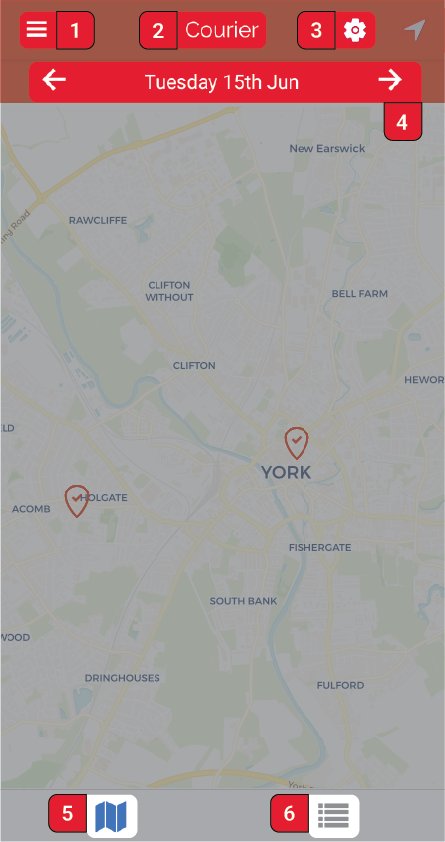
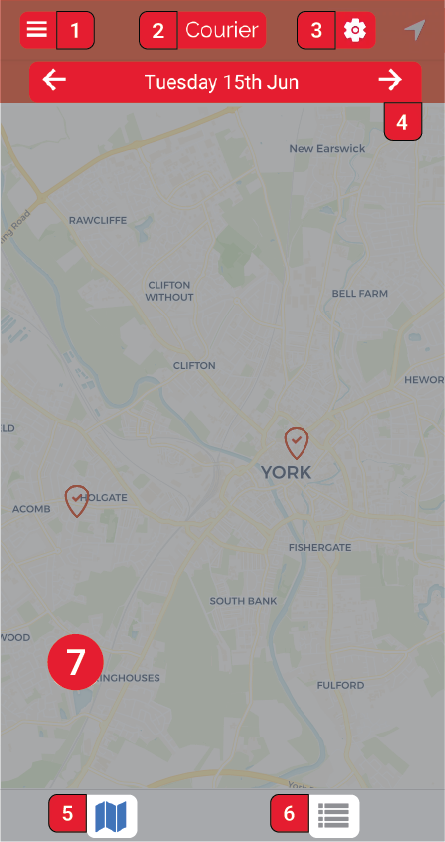
add app

Changed region(s): [[0.0876, 0.7411, 0.2337, 0.8337]]

diff --git a/docs/_app/courier.md b/docs/_app/courier.md
@@ -3,13 +3,11 @@ layout: default
 title: Courier
 ---
 
-<link rel="stylesheet" href="https://cdnjs.cloudflare.com/ajax/libs/font-awesome/5.5.0/css/all.css"!important>
-
-
+<link rel="stylesheet" href="https://cdnjs.cloudflare.com/ajax/libs/font-awesome/5.14.0/css/all.css">
 
 # Courier
 
-<div class="alert mt-3 alert-" role="alert">
+<div class="alert mt-3 alert-info" role="alert">
 How to use the App as a Courier.
 </div>
 
@@ -20,10 +18,10 @@ See [Log in](en/app/install/#log-in).
 
 | Instructions  | Main screen  |
 | ------- | ------- |
-| <span class="badge badge-danger">1</span> App menu<br><span class="badge badge-danger">2</span> User account role<br><span class="badge badge-danger">3</span> App settings<br><span class="badge badge-danger">4</span> Calendar picker<br><span class="badge badge-danger">5</span> Map screen/Main screen<br><span class="badge badge-danger">6</span> Task list screen<br><span class="badge badge-danger">7</span> Map|![](/assets/images/appCourierMainScreen.png).|
+| <span class="badge badge-danger">1</span> App menu<br><span class="badge badge-danger">2</span> User account role<br><span class="badge badge-danger">3</span> App settings<br><span class="badge badge-danger">4</span> Date picker<br><span class="badge badge-danger">5</span> Map screen<br><span class="badge badge-danger">6</span> Task list screen<br><span class="badge badge-danger">7</span> Map|![](/assets/images/appCourierMainScreen.png).|
    
 
-### App menu
+### <span class="badge badge-danger">1</span> App menu
 
 Here you can find:
 
@@ -38,23 +36,66 @@ Bottom of the menu screen:
 - The Coop email is displayed. This is the email set up in Setting on the Platform website.
 - Version number of the App.
 
-### User account role
+### <span class="badge badge-danger">2</span> User account role
 This simply displays the role your user account. If your user account has multiple roles, the role would change depending on where you navigate within the app.
 
-### App settings
+### <span class="badge badge-danger">3</span> App settings
 <div class="alert mt-3 alert-info" role="alert">
 App settings is split into two sections.
 </div>
 
 #### **Tasks**
-<span><i class="fa fa-check" aria-hidden="true"></i> <strong>Hide done tasks</strong> hides on the map the tasks that have been completed.</span>
-<span><i class="fa fa-times" aria-hidden="true"></i> <strong>Hide failed tasks</strong> hides on the map the tasks that have been cancelled or refused.</span>
-<span><i class="fa fa-tag" aria-hidden="true"></i> <strong>Hide done tasks</strong> hides on the map the tasks that have been completed.</span>
+<span><i class="fa fa-check" aria-hidden="true"></i> <strong>Hide done tasks</strong> hides on the map the tasks that have been completed.</span>  
+<span><i class="fa fa-times" aria-hidden="true"></i> <strong>Hide failed tasks</strong> hides on the map the tasks that have been cancelled or refused.</span>  
+<span><i class="fa fa-tag" aria-hidden="true"></i> <strong>Hide done tasks</strong> hides on the map the tasks that have been completed.</span>  
 <span><i class="fa fa-volume-up" aria-hidden="true"></i> <strong>Tasks changed alert sound</strong> if enabled the app will notify when a tasks has been modified. If disabled notification will only happen for new assigned tasks.</span>
 
 #### **Settings**
-<span><i class="fas fa-signature" aria-hidden="true"></i> <strong>Signature screen as default</strong> if enabled displays the Signature screen when clicking on <i class="fas fa-signature" aria-hidden="true"></i> Add a proof of delivery <i class="fas fa-camera" aria-hidden="true"></i>. If disabled the Camera opens instead of the Signature screen.</span>
-<i class="fas fa-power-off" aria-hidden="true"></i> Disable screen lock
+<span><i class="fas fa-signature" aria-hidden="true"></i> <strong>Signature screen as default</strong> if enabled it displays the Signature screen when completing a task after clicking on <span class="badge badge-secondary"><i class="fas fa-signature" aria-hidden="true"></i> Add a proof of delivery <i class="fas fa-camera" aria-hidden="true"></i></span>. If disabled the Camera opens instead of the Signature screen.</span>
+<!--<span><i class="fas fa-power-off" aria-hidden="true"></i> Disable screen lock</span>-->
+
+### <span class="badge badge-danger">4</span> Date picker
+
+Clicking on the date it displays the calendar where you can navigate to any date you need.
+Clicking on the left and right arrows it displays tasks from the previous or next date based on the date you're on currently.
+
+### <span class="badge badge-danger">5</span> Map screen
+
+This is the default screen when opening the app. The <span><i class="fa fa-map" aria-hidden="true"></i> icon at the bottom if blue indicates you're on the Map screen.</span>.
+Here you can see all available tasks as pins on the map. Completed tasks will be displayed as greyed out pins. 
+
+Tasks (pins) depending on the number of tasks and the zoom level of the map are automatically bundled together in Clusters. A cluster is a solid grey pin with a number on it indicating the number of tasks contained in the cluster. Clicking on the cluster 
+
+### <span class="badge badge-danger">6</span> Task list screen
+
+This screen allows yo to see all the available tasks in list form. To select the Task list screen click on <i class="fa fa-list" aria-hidden="true"></i> icon next to the map icon.
+
+Each Task when opened displays a mini-map.
+
+### <span class="badge badge-danger">7</span> Map
+
+This is the map on the Main screen where you can see all the available tasks.
+
+## Complete an Order or Delivery
+<div class="alert mt-3 alert-info" role="alert">
+Each Order or Delivery are completed one Task at a time. 
+</div>
+
+| From the Map screen  | From the Task list screen  |
+| ------- | ------- |
+| 1. Click on the desired Task (pin) on the map<br>2. Click on the Task from the pop-up<br>3. Swipe **Right** on the **Complete** button at the bottom<br>4. Click the <span class="badge badge-success"><i class="fa fa-check"></i></span> button.<br> 5. If needed, add a note and proof of delivery [see here]()<br>6. Click <span class="badge badge-success"><i class="fa fa-check"></i> Validate</span>|1. Swipe **Right** on the desired Task<br>2. Click the <span class="badge badge-success"><i class="fa fa-check"></i></span> button. <br>3. If needed, add a note and proof of delivery [see here]()<br>4. Click <span class="badge badge-success"> <i class="fa fa-check"></i> Validate</span>  |
+| ![Complete a delivery from the map screen](/assets/images/appFulfillTaskFromMap.gif) . | ![Complete a delivery from the Task list screen](/assets/images/appFulfillTaskFromTaskList.gif) . |
+
+### Start a Delivery 
+
+Starting ... test.
+
+### Add proof of delivery
+
+
+
+
+
 
 
 
